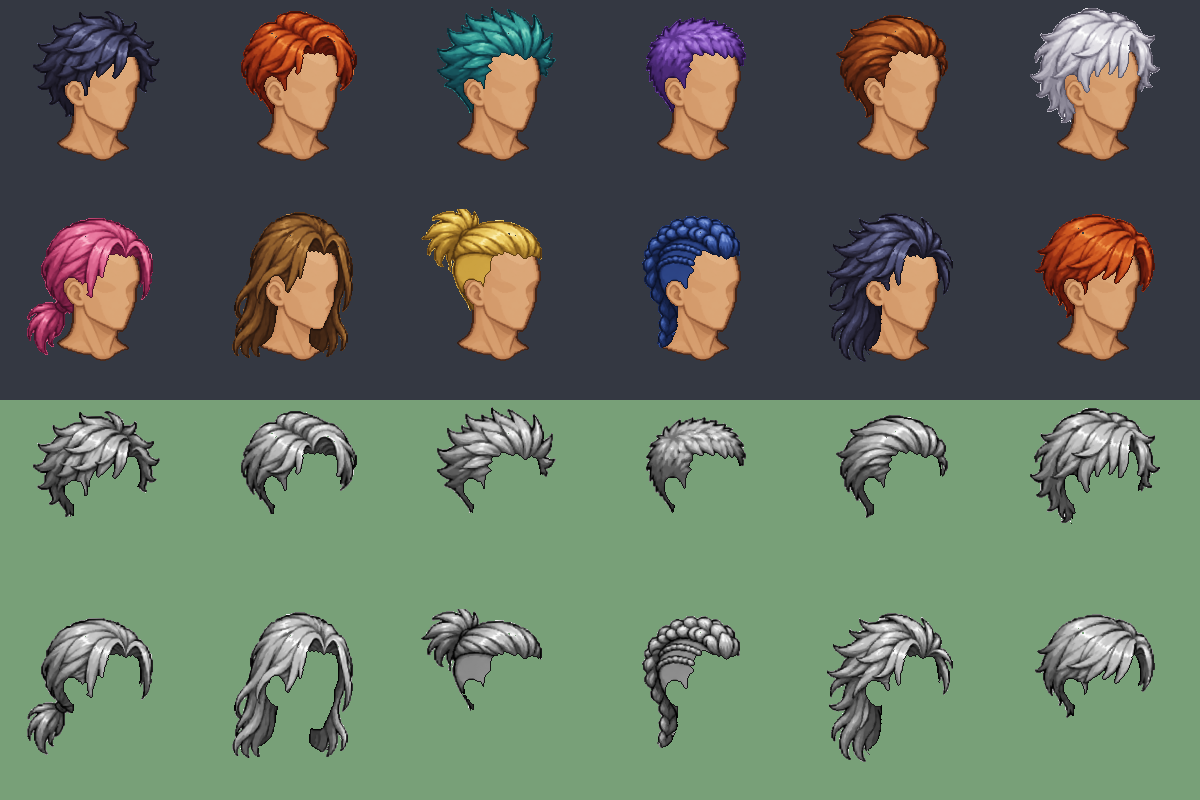
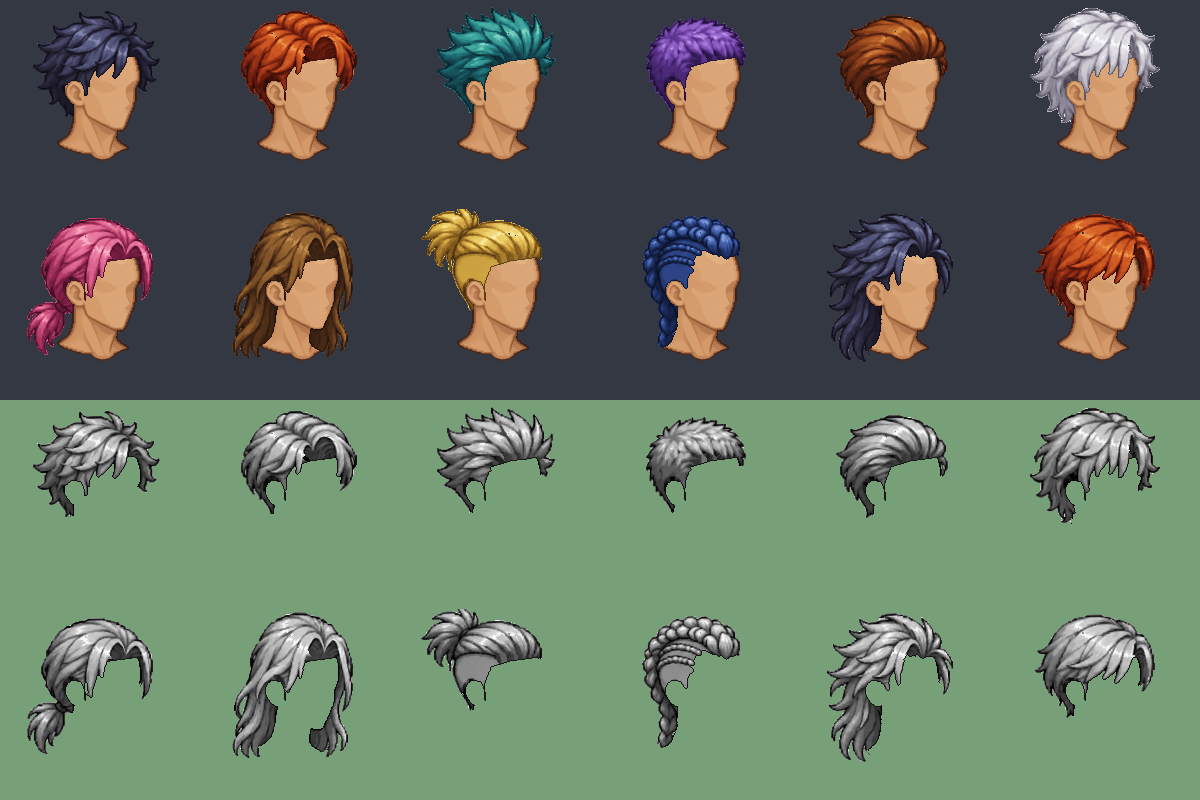
Hair: fill bald scalp above the hairline on 9 male styles
Claude-Session: https://claude.ai/code/session_01M8ejkLTav7LEMdtajuWjkN

diff --git a/art_source/new_art/portraits/process_hair.py b/art_source/new_art/portraits/process_hair.py
@@ -52,6 +52,14 @@ EAR = {
 }
 
 
+# Skin that stays visible under every hairstyle: face below the hairline, the neck and the nape (the ear has its own
+# mask). Anything else on the base head is scalp; styles listed in FILL_BALD get their bald scalp filled with hair.
+FACE = {
+    'm': [(85, 84), (91, 67), (110, 61), (132, 58), (160, 58), (160, 200), (40, 200), (40, 112), (68, 108), (86, 100)],
+}
+FILL_BALD = {'m': {'sidepart', 'spiky', 'crewcut', 'slicked', 'shaggy', 'ponytail', 'long', 'topknot', 'knight_cut'}}
+
+
 def ear_mask(poly):
     from PIL import ImageDraw
     im = Image.new('L', (200, 200), 0)
@@ -59,7 +67,7 @@ def ear_mask(poly):
     return np.asarray(im).astype(bool)
 
 
-def attach(img, B, mann, ear_poly, style):
+def attach(img, B, mann, ear_poly, style, sex):
     """Make the hair sit cleanly on the base head:
     1. ear: if the style left the mannequin's ear visible, the base ear is cut out of the hair (ear in front);
        if the style covered the ear, the hair stays over it.
@@ -80,6 +88,15 @@ def attach(img, B, mann, ear_poly, style):
         idx = ndi.distance_transform_edt(~hair, return_distances=False, return_indices=True)
         val[gap] = val[idx[0][gap], idx[1][gap]]
         hair = hair | gap
+    # bald scalp above the hairline / behind the ear -> nearest hair
+    bald = 0
+    if style in FILL_BALD.get(sex, ()) and sex in FACE:
+        scalp = B & ~ear_mask(FACE[sex]) & ~E & ~hair
+        bald = int(scalp.sum())
+        if bald:
+            idx = ndi.distance_transform_edt(~hair, return_distances=False, return_indices=True)
+            val[scalp] = val[idx[0][scalp], idx[1][scalp]]
+            hair = hair | scalp
     # outline against visible skin
     skin = B & ~hair
     edge = hair & ndi.binary_dilation(skin, structure=[[0, 1, 0], [1, 1, 1], [0, 1, 0]])
@@ -88,7 +105,7 @@ def attach(img, B, mann, ear_poly, style):
     for c in range(3): out[..., c] = np.where(hair, val, 0).astype(np.uint8)
     out[..., 3] = np.where(hair, 255, 0)
     print(f'  {style}: ear {"covered" if ear_hidden >= 0.5 else "in front"} ({ear_hidden:.0%} under hair), '
-          f'{int(gap.sum())} gap px filled')
+          f'{int(gap.sum())} gap px, {bald} bald scalp px filled')
     return out
 
 
@@ -189,7 +206,7 @@ def main(sex):
         img = np.zeros((200, 200, 4), np.uint8)
         for c in range(3): img[..., c] = gray
         img[..., 3] = np.where(wm > 0.45, 255, 0)
-        img = attach(img, B, warp(Cmm, best) > 0.5, EAR[sex], style)
+        img = attach(img, B, warp(Cmm, best) > 0.5, EAR[sex], style, sex)
         fits[style] = dict(fit, cost_before=int(cost(p0)), cost_after=int(cost(best)))
         Image.fromarray(img).save(os.path.join(HERE, f'{sex}_hair_{style}.png'))
         out[style] = img

diff --git a/art_source/new_art/README.md b/art_source/new_art/README.md
@@ -15,7 +15,9 @@
   rotation, shift; `hair_fit_m.json`) so the mannequin lies on the base head and no bald skull shows past the hair.
   Then each style is re-cut around the base head's own ear (polygon `EAR` in the script, traced on the head): the ear
   sits in front of the hair unless the style covers it, small skull gaps are filled with the nearest hair, and a
-  1-px dark line is drawn where hair meets skin. Output `m_hair_<style>.png`: 200x200 **hair value maps**
+  1-px dark line is drawn where hair meets skin. For the styles in `FILL_BALD` (user's list: sidepart, spiky,
+  crewcut, slicked, shaggy, ponytail, long, topknot, knight_cut) all bald scalp above the hairline `FACE` and
+  behind the ear is filled with the nearest hair. Output `m_hair_<style>.png`: 200x200 **hair value maps**
   (tinted with the 10 hair ramps). Styles: messy, sidepart, spiky, crewcut, slicked, shaggy, ponytail, long
   (the game's existing 8) + topknot, braided_mohawk, wild_mane, knight_cut (new).
   `preview_hair_m.png`: each style tinted on the base head, then the raw value maps.
